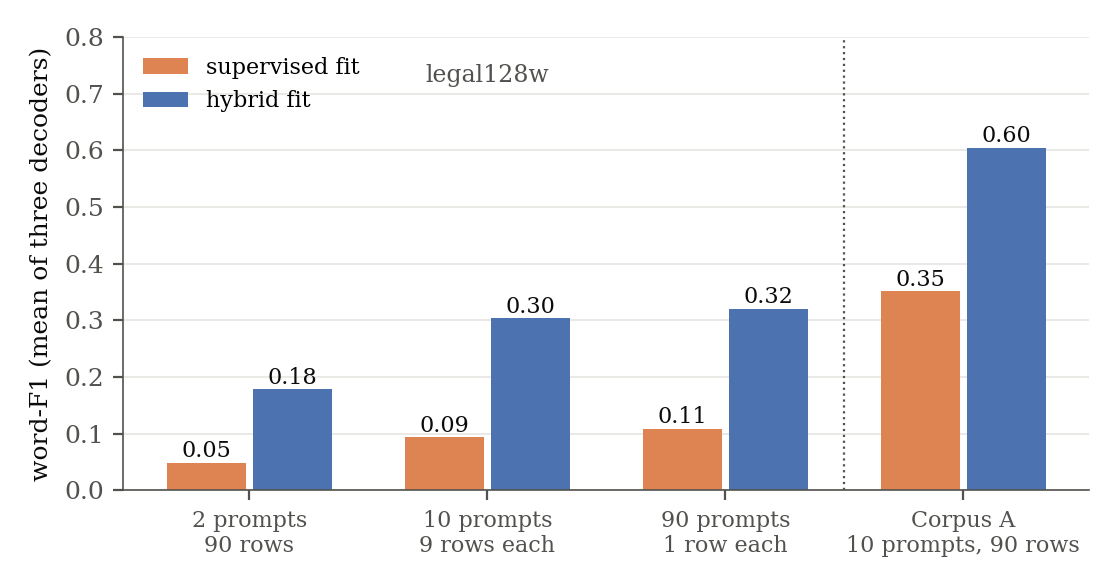
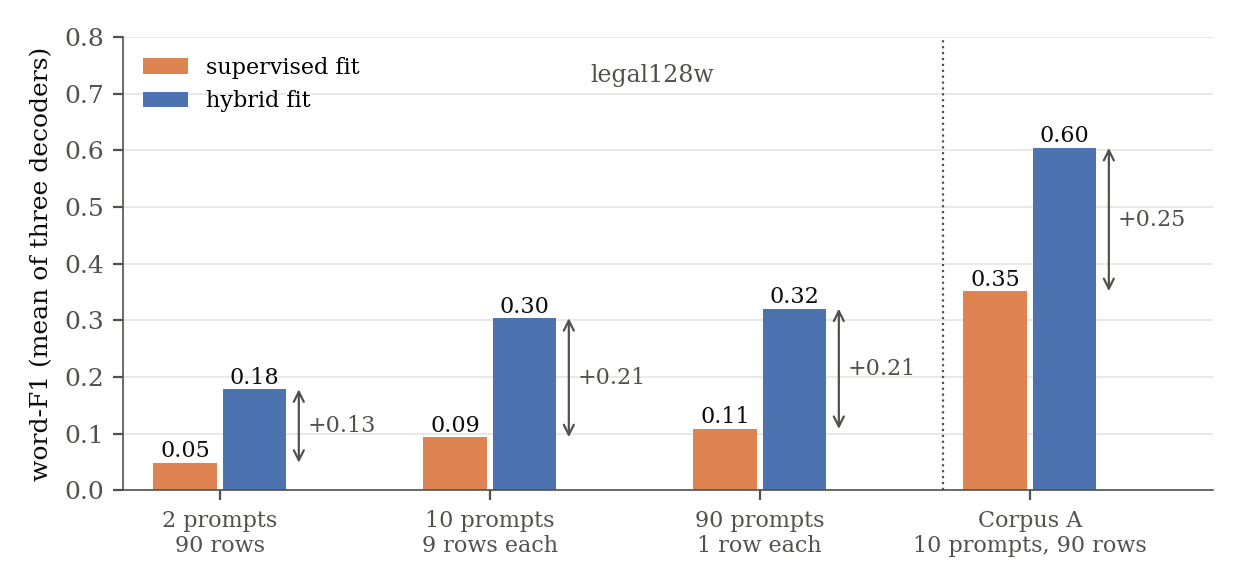
ch4: gap numbers on the main-comparison and leak-spread figures; blind-matching table removed, result kept in four sentences; settings table rebuilt with four rows and three settings columns

Changed region(s): [[0.3438, 0.2172, 0.9688, 0.9621], [0.0, 0.031, 0.3125, 0.9621], [0.375, 0.0931, 0.5938, 0.1552]]

diff --git a/chapters/ch4_weak_supervised_attack/s7_ablations.tex b/chapters/ch4_weak_supervised_attack/s7_ablations.tex
@@ -59,34 +59,10 @@ The dotted line is the hub reference, and the gray band is the mismatched-prompt
 
 \subsection{Matching without a leak}\label{sec:attack:blind}
 
-%% BIG CHANGE: polish; reword or relocate this passage for precision and flow.
-Without leaked pairs, the tested blind maps yield word-F1 close to their mismatched-prompt controls.
-Table~\ref{tab:attack:blind} lists four groups of blind maps, trained on the unpaired pools of Corpus A with Pythia as the target model.
-The groups vary the score of the matching term, select the best of twelve further runs, replace the matching term by a Gromov-Wasserstein coupling that pairs the two pools by their internal distances, or set $\alpha = 0$ in Equation~\ref{eq:attack:loss}.
-The largest gain of a blind map over its mismatched-prompt control is \vf{0.025} word-F1 (interval \vf{0.019} to \vf{0.030}), at a word-F1 of \vf{0.080} against a hub reference of \vf{0.946}. % src: results/v7_2/main/neighbourhood.json seeds.1.comparison.factorial (0.0801, 0.0555, +0.0247 [0.0187, 0.0304])
-That map is the best of twelve runs, so its gain is biased upward.
-The tested blind maps thus gain at most \vf{0.025} word-F1 over their controls, whereas the hybrid fit improves on the supervised fit.
-The result covers two objectives, one target model, and one corpus, and does not show that no unpaired method can connect a target model.
-
-\begin{table}[H]
-\caption{No blind map gains more than \vf{0.025} word-F1 over its mismatched-prompt control.
-Word-F1 averaged over three decoders, Pythia on Corpus A; word-F1 and control are means over the maps of a row, and the last column is the largest gain of one map over its own control.
-%% BIG CHANGE: polish; reword or relocate this passage for precision and flow.
-The first row evaluates \vf{5{,}000} validation prompts and the others \vf{500} selection prompts.}
-\label{tab:attack:blind}
-\centering
-\small\setlength{\tabcolsep}{4pt}
-\begin{tabular}{p{0.33\textwidth}cccc}
-\toprule
-Blind map & Maps & Mean word-F1 & Mean control & Largest gain \\
-\midrule
-Matching term, three scores, three seeds & \vf{9} & \vf{0.074} & \vf{0.080} & \vf{$+0.015$} \\ % src: results/v7/main-different_text-pythia/results.json macro_word_f1 (*:s{1,2,3}:full:final; means 0.0743, 0.0797; differences -0.0189 to +0.0151, no interval stored)
-Matching term, best of twelve & \vf{1} & \vf{0.080} & \vf{0.056} & \vf{$+0.025$} \\ % src: results/v7_2/main/neighbourhood.json seeds.1.comparison.factorial (0.0801, 0.0555, +0.0247 [0.0187, 0.0304])
-Gromov-Wasserstein coupling & \vf{6} & \vf{0.101} & \vf{0.097} & \vf{$+0.021$} \\ % src: results/v7_2/main/gw.json representations.*.seeds.1.epsilons.*.decoding (means 0.1013, 0.0966; largest +0.0213 [0.0164, 0.0261])
-Equation~\ref{eq:attack:loss} at $\alpha = 0$, three seeds & \vf{6} & \vf{0.056} & \vf{0.059} & \vf{$+0.009$} \\ % src: results/v7_2/main/mixed-v7_9-s1.json seeds.*.cells.b10/a0/{sq,cos}/* (means 0.0557, 0.0594; largest +0.0089 [0.0045, 0.0136])
-\bottomrule
-\end{tabular}
-\end{table}
+Matching alone, without any leaked row, does not yield a readable map.
+On Corpus A, the blind maps tested score at most \vf{0.153} word-F1, against a hub reference of \vf{0.946}, and none exceeds its mismatched-prompt control by more than \vf{0.025} (interval \vf{0.019} to \vf{0.030}). % src: results/v7_2/main/gw.json (highest blind word-F1 0.1528, control 0.1414); results/v7_2/main/neighbourhood.json seeds.1.comparison.factorial (0.0801, 0.0555, +0.0247 [0.0187, 0.0304]); also results/v7/main-different_text-pythia/results.json and results/v7_2/main/mixed-v7_9-s1.json (alpha 0 cells)
+The matching term therefore improves reconstruction only together with a leak.
+The result covers \vf{22} blind maps from two objectives, one target model, and one corpus; it does not show that no unpaired method can connect a target model. % src: 9 + 1 + 6 + 6 maps in the four files above
 
 \subsection{Components of the loss}\label{sec:attack:components}
 
@@ -136,6 +112,7 @@ Figure~\ref{fig:attack:shape} shows the three leaks beside the Corpus A leak of 
 \includegraphics[width=0.8\textwidth]{ch4/leak_shape}
 \caption{With \vf{90} leaked rows on legal128w, the hybrid fit scores \vf{0.18} for a leak from two prompts and \vf{0.30} to \vf{0.32} for a leak spread over \vf{10} or \vf{90} prompts.
 Word-F1 averaged over three decoders, seed \vf{1}, \vf{500} selection prompts, hybrid fit with $\alpha = 0.99$, $\tau = d$, $B = 8{,}192$.
+Each bracket gives the gain of the hybrid fit.
 The Corpus A leak takes whole prompts, so the two corpora differ in more than the domain.}
 \label{fig:attack:shape}
 \end{figure}

diff --git a/chapters/ch4_weak_supervised_attack/s4_experiments.tex b/chapters/ch4_weak_supervised_attack/s4_experiments.tex
@@ -31,28 +31,25 @@ The excess cross-entropy of a fit is the decoder's cross-entropy on the true nex
 The KL divergence measures the difference between the decoder's next-token distributions under the hub outputs of OLMo and under the mapped states.
 Both are summed over the tokens of a word and reported in nats per content word, pooled over the three decoders. % src: teacher_forced_run.py; teacher_forced_summary.py; results/v7_2/main/framework/teacher_forced/summary.json (definition)
 
-\paragraph{Experiments and their settings.} Table~\ref{tab:attack:settings} lists the experiments.
+\paragraph{Experiments and their settings.} Table~\ref{tab:attack:settings} lists the setting of each experiment.
+The main comparison counts its leak in rows; the other experiments count whole paired sequences unless their section states rows.
 %% BIG CHANGE: polish; reorganize explanation without changing the reported evidence.
 Each experiment addresses a separate question under the settings in its row.
 Differences between rows in supervision, fitting, and evaluation prevent their scores from forming a single numerical progression.
 
 \begin{table}[H]
-%% BIG CHANGE: polish; reword or relocate this passage for precision and flow.
-\caption{The main comparison evaluates \vf{4{,}500} held-out prompts with three seeds; each result table states the seeds of its experiment.
-Settings of the hybrid fit by experiment: supervision fraction $\alpha$, temperature $\tau$ as a multiple of the scale $d$, and batch size $B$ of the matching term.
-A budget counts whole paired sequences.}
+\caption{The experiments rest on four settings of the hybrid fit.
+Supervision fraction $\alpha$, temperature $\tau$ as a multiple of the scale $d$, and batch size $B$ of the matching term; each result table states its prompts and seeds.}
 \label{tab:attack:settings}
 \centering
-\footnotesize\setlength{\tabcolsep}{3pt}
-\begin{tabular}{p{0.27\textwidth}cccp{0.22\textwidth}p{0.20\textwidth}}
+\begin{tabular}{p{0.44\textwidth}ccc}
 \toprule
-Experiment & $\alpha$ & $\tau$ & $B$ & Leak & Prompts \\
+Experiments & $\alpha$ & $\tau$ & $B$ \\
 \midrule
-Main comparison (H2) & \vf{0.9} & $2d$ & \vf{8{,}192} & \vf{90} rows from ten prompts & \vf{4{,}500} held-out \\ % src: configs/w46_{nq,legal128w}_std.yaml; results/*/v7_2/main/w46-confirmation-s{1,2,3}.json
-Second round (exploratory) & \vf{0.95} & $2d$ & \vf{8{,}192} & budget \vf{10} or \vf{100} & \vf{450} selection \\ % src: results/*/v7_2/main/framework/attacker/*-haiku.json
-Teacher-forced scores, legal128w budget curve & \vf{0.95} & $2d$ & \vf{8{,}192} & budgets \vf{1} to \vf{100} & \vf{500} selection \\ % src: results/*/v7_2/main/framework/teacher_forced/summary.json (Corpus A three seeds, legal128w seed 1)
-Budget curve, Corpus A & \vf{0.95} & $2d$ & \vf{2{,}048} & budgets \vf{10} to \vf{1{,}000} & \vf{500} selection \\ % src: results/v7_2/main/mixed-v7_9-s5.json
-Leak composition, second target model, decoder training & \vf{0.99} & $d$ & \vf{8{,}192} & \vf{90} rows, or budgets \vf{10} to \vf{100} & \vf{500} selection, \vf{4{,}500} held-out where stated \\ % src: results/legal128w/v7_2/main/mixed-oct_w5-s1-L90.json setting; mixed-v8_7-s1.json, mixed-v8_7-s2.json selection
+Main comparison, \vf{90}-row leak (Section~\ref{sec:attack:hybrid}) & \vf{0.9} & $2d$ & \vf{8{,}192} \\ % src: configs/w46_{nq,legal128w}_std.yaml
+Second round, teacher-forced scores, legal128w budget curve & \vf{0.95} & $2d$ & \vf{8{,}192} \\ % src: results/*/v7_2/main/framework/attacker/*-haiku.json; framework/teacher_forced/summary.json; results/legal128w/v7_2/main/v8_6-summary.json
+Corpus A budget curve & \vf{0.95} & $2d$ & \vf{2{,}048} \\ % src: results/v7_2/main/mixed-v7_9-s5.json
+Leak composition, second target model, training through the decoder & \vf{0.99} & $d$ & \vf{8{,}192} \\ % src: results/legal128w/v7_2/main/mixed-oct_w5-s1-L90.json setting; mixed-v8_7-s1.json, mixed-v8_7-s2.json selection
 \bottomrule
 \end{tabular}
 \end{table}

diff --git a/figures/scripts/make_figures.py b/figures/scripts/make_figures.py
@@ -37,6 +37,13 @@ def save(fig, rel):
     print(path.with_suffix(".pdf"))
 
 
+def gap(ax, x, low, high):
+    """The difference hybrid minus supervised, written beside a bracket at x."""
+    ax.annotate("", (x, high), (x, low), arrowprops=dict(arrowstyle="<->", color=INK2, lw=0.8, shrinkA=0, shrinkB=0))
+    ax.annotate(f"+{high - low:.2f}", (x, (low + high) / 2), xytext=(3, 0), textcoords="offset points",
+                va="center", fontsize=8, color=INK2)
+
+
 def budget():
     d = json.loads((ROOT / "results/v7_2/main/mixed-v7_9-s5.json").read_text())
     reference = json.loads((ROOT / "results/v7_2/main/factorial.json").read_text())
@@ -150,8 +157,11 @@ def standard():
             ax.annotate(f"{mean:.2f}", (x, max(vals)), xytext=(0, 5), textcoords="offset points",
                         ha="center", fontsize=8, color=INK)
             print(name, label, round(mean, 4), [round(v, 4) for v in vals])
+        means = [sum(per[k]) / 3 for k in ("supervised fit", "hybrid fit")]
+        gap(ax, i + width + 0.05, means[0], means[1])
     ax.set_xticks(range(len(CORPORA)))
     ax.set_xticklabels([c[0] for c in CORPORA])
+    ax.set_xlim(-0.5, len(CORPORA) - 0.25)
     ax.set_ylim(0, 1.0)
     ax.set_ylabel("word-F1 (mean of three decoders)")
     ax.grid(axis="y")
@@ -234,13 +244,14 @@ rewriting()
 cross_entropy()
 
 
-def bars(ax, groups, width=0.36):
+def bars(ax, groups, width=0.36, step=1.0):
     """Paired bars, supervised then hybrid, with the value above each bar."""
     for i, (sup, hyb) in enumerate(groups):
         for k, (v, color, label) in enumerate(((sup, SUPERVISED, "supervised fit"), (hyb, HYBRID, "hybrid fit"))):
-            x = i + (k - 0.5) * width
+            x = i * step + (k - 0.5) * width
             ax.bar(x, v, width * 0.92, color=color, label=label if i == 0 else None)
             ax.annotate(f"{v:.2f}", (x, v), xytext=(0, 2), textcoords="offset points", ha="center", fontsize=8, color=INK)
+        gap(ax, i * step + width + 0.05, sup, hyb)
 
 
 def leak_shape():
@@ -262,12 +273,14 @@ def leak_shape():
         assert h["anchor_counts"]["leak_rows" if "leak_rows" in h["anchor_counts"] else "prompts"] > 0
         groups.append((f1(s_), f1(h)))
         print(name.replace("\n", " "), "supervised", round(f1(s_), 4), "hybrid", round(f1(h), 4), "prompts", h["anchor_counts"].get("prompts"))
-    fig, ax = plt.subplots(figsize=(5.6, 2.9))
-    bars(ax, groups)
-    ax.axvline(2.5, color=INK2, lw=0.8, ls=":")
-    ax.annotate("legal128w", (1.0, 0.72), ha="center", fontsize=8.5, color=INK2)
-    ax.set_xticks(range(len(specs)))
+    step = 1.4
+    fig, ax = plt.subplots(figsize=(6.2, 2.9))
+    bars(ax, groups, step=step)
+    ax.axvline(2 * step + 0.95, color=INK2, lw=0.8, ls=":")
+    ax.annotate("legal128w", (1.6 * step, 0.72), ha="center", fontsize=8.5, color=INK2)
+    ax.set_xticks([i * step for i in range(len(specs))])
     ax.set_xticklabels([s_[0] for s_ in specs], fontsize=8)
+    ax.set_xlim(-0.5, 3 * step + 0.95)
     ax.set_ylim(0, 0.8)
     ax.set_ylabel("word-F1 (mean of three decoders)")
     ax.grid(axis="y")

diff --git a/chapters/ch4_weak_supervised_attack/s5_matching.tex b/chapters/ch4_weak_supervised_attack/s5_matching.tex
@@ -34,7 +34,7 @@ legal128w & \vf{500} selection & \vf{0.102} & \vf{0.320} & \vf{$+0.218$} [\vf{0.
 \centering
 \includegraphics[width=0.6\textwidth]{ch4/standard_cell}
 \caption{The hybrid fit exceeds the supervised fit in every seed on both corpora.
-Word-F1 averaged over three decoders on the \vf{4{,}500} held-out prompts, with a leak of \vf{90} rows; bars are means over three seeds and dots the seeds.}
+Word-F1 averaged over three decoders on the \vf{4{,}500} held-out prompts, with a leak of \vf{90} rows; bars are means over three seeds, dots the seeds, and each bracket the gain of the hybrid fit.}
 \label{fig:attack:standard}
 \end{figure}
 
